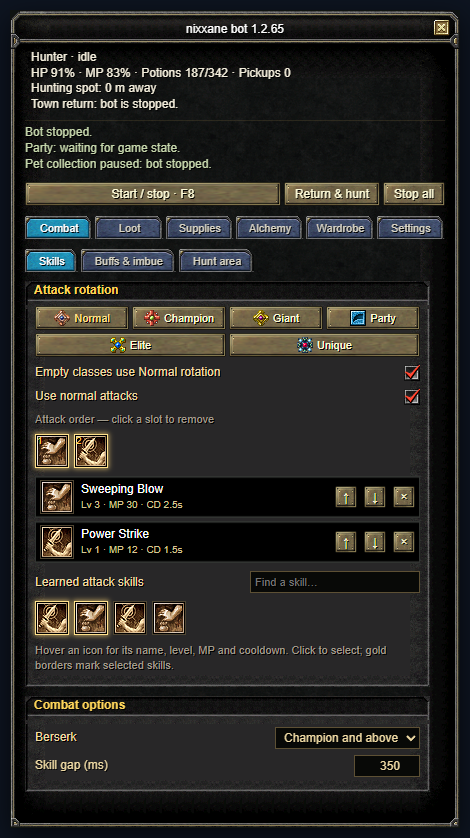
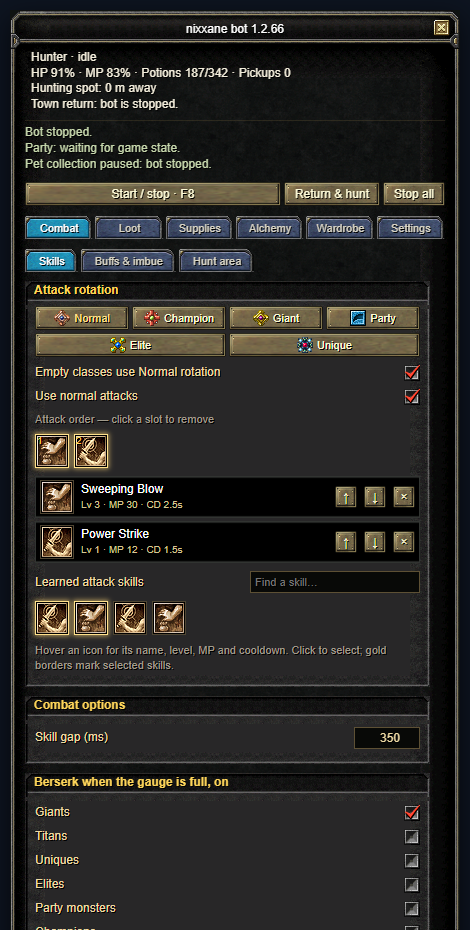
1.2.66 patch notes and guide update

diff --git a/guide.html b/guide.html
@@ -86,9 +86,9 @@
     <p>The pet collects while you fight. The status line shows what it is doing.</p>
     <h3>What happens to the pet's loot in town</h3>
     <ul>
-      <li><strong>Elixirs</strong> go to the warehouse.</li>
+      <li><strong>Elixirs, magic stones and attribute stones</strong> go to the warehouse. Stones are also stored from your own bag. Tick <strong>Magic stones</strong> and <strong>Attribute stones</strong> in Loot to collect them.</li>
       <li><strong>Star, Moon and Sun (SoX) gear</strong> goes to the warehouse too, from your bag and from the pet, unless it belongs to a saved buff set, is the weapon chosen for alchemy, or matches your <strong>Keep in pet</strong> names. You can also list character levels (for example <em>85</em> or <em>80-90</em>) under <strong>Also deposit gear requiring level</strong> to store that gear as well.</li>
-      <li><strong>Other pet loot is sold</strong> at the repair merchant. Potions, scrolls, supplies, seal or rare gear and anything matching <strong>Keep in pet (names)</strong> are protected; everything else the pet carries is sold, including lucky powders and stones. Put a name in Keep in pet to protect something, and untick categories in Loot that you do not want collected.</li>
+      <li><strong>Other pet loot is sold</strong> at the repair merchant. Potions, scrolls, supplies, seal or rare gear and anything matching <strong>Keep in pet (names)</strong> are protected; everything else the pet carries is sold, including lucky powders and attribute tablets. Put a name in Keep in pet to protect something, and untick categories in Loot that you do not want collected.</li>
     </ul>
     <p>Tick <strong>Equipment: only SoX</strong> in Loot to collect only Star, Moon and Sun equipment; other categories follow their own checkboxes. A SoX pickup shows a notice and plays a chime, and Settings → Session stats counts them.</p>
 

diff --git a/index.html b/index.html
@@ -26,6 +26,15 @@
       <h2 id="patch-notes-title">Patch notes</h2>
       <p class="notes-intro">Install the latest script, then reload the game. Reporting-service fixes apply automatically.</p>
       <article class="release">
+        <h3><a href="https://github.com/nixxane/opensro-bot-lean/commit/15393b723282ef3730213a7e47b9c6d7912aba90">1.2.66</a> · Berserk by monster kind, and stones go to the warehouse</h3>
+        <ul>
+          <li>Berserk is now a list of monster kinds (Giants, Titans, Uniques, Elites, Party monsters, Champions, Normal monsters) instead of one dropdown. Only Giants are ticked by default, so champions no longer use it. Profiles that had Berserk off or on for everything keep that; Champion and above becomes Giants only.</li>
+          <li>Magic stones and attribute stones have their own switches in Loot, each keeping your old Other alchemy items setting.</li>
+          <li>Both kinds of stone are stored in the warehouse on the next town trip, from the pet and from your own bag, and are never sold. Magic stones include the Astral, Luck, Steady and Immortal stones.</li>
+        </ul>
+        <p class="release-note">Attribute tablets are not stones; they stay under Other alchemy items and are sold from the pet like before.</p>
+      </article>
+      <article class="release">
         <h3><a href="https://github.com/nixxane/opensro-bot-lean/commit/5b2a20a1603f0487c6988fbe69ce18106cfdd159">1.2.65</a> · Hunting continues after a resurrection</h3>
         <ul>
           <li>If hunting was running when the character died, it now resumes after a resurrection you accepted, whatever On death is set to. At the hunting spot it just starts, a short way off it walks back first, and elsewhere it stays stopped and tells you.</li>
